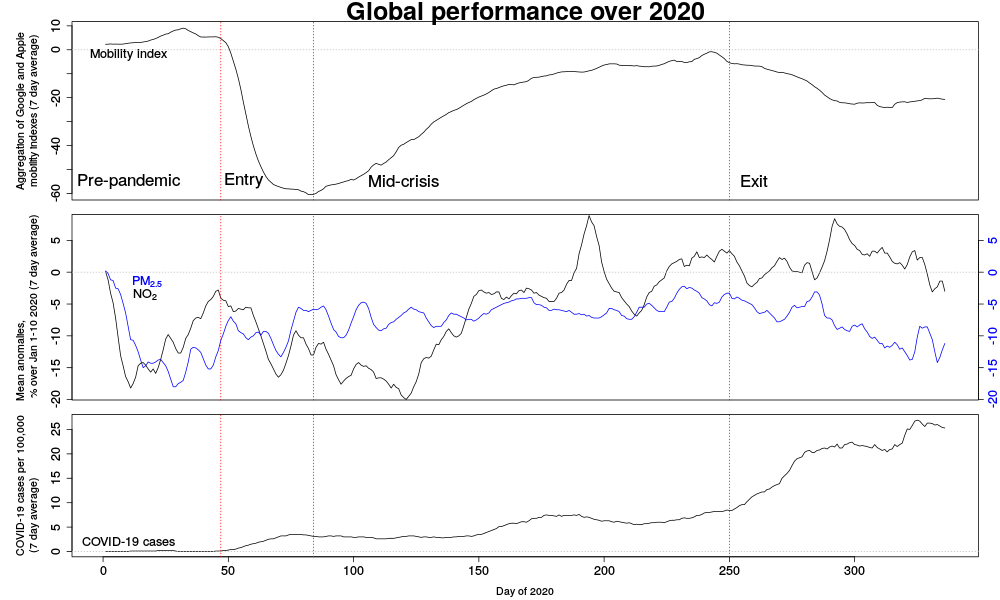
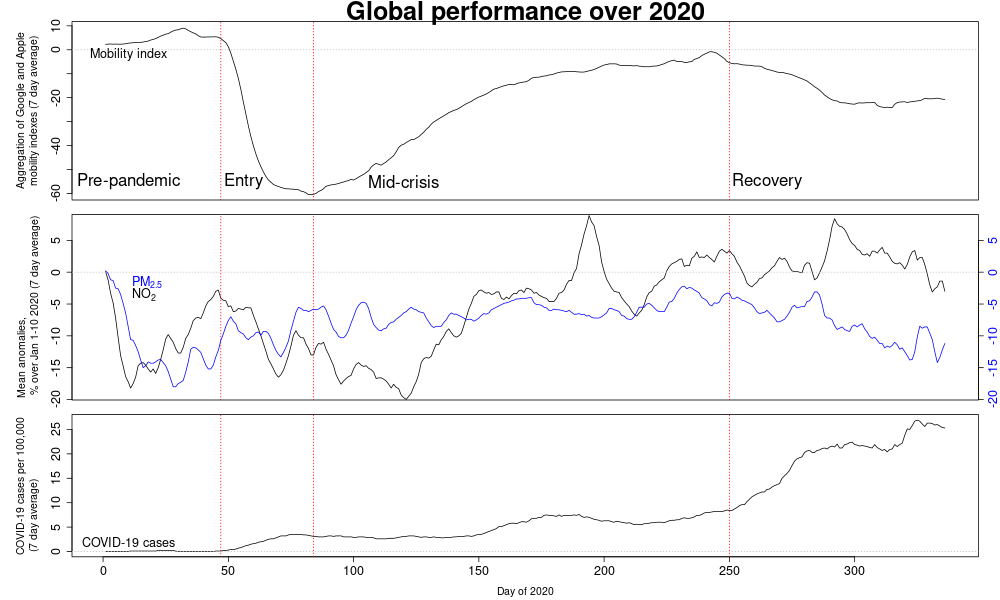
Middle of first draft

diff --git a/LancetPH_Pollution2020.tex b/LancetPH_Pollution2020.tex
@@ -110,7 +110,7 @@
 %%             country={}}
 %% \fntext[label3]{}
 
-\title{How urban design contributes to changes in mode choice and health risks in crises: a global observational study}
+\title{How city design contributes to changes in mode choice and health risks during a crisis: a global observational study}
 
 %% use optional labels to link authors explicitly to addresses:
 %% \author[label1,label2]{}
@@ -185,23 +185,26 @@
 
 \section*{Introduction}
 
-City designs are highly influenced by the dominant transport modes present at the time of their development \cite{KNOWLES2020102607}. These designs, which may vary both within and between cities, form a scaffold upon which citizens move and interact \cite{Thompson2020}. City designs therefore both afford and constrain transport mode options and patterns of mobility within them, affecting lifestyles and exposure to risks and opportunities for the more than 4.4 billion people who live within cities, worldwide \cite{WHO2023}.
+City designs are highly influenced by the dominant transport modes present at the time of their development \cite{KNOWLES2020102607}. The designs which vary within and between cities, form a scaffold upon which citizens move and interact \cite{Thompson2020}. City designs therefore both afford and constrain transport mode choice and signifcantly influence mobility patterns, which influence lifestyles and exposure to health risks. \cite{WHO2023}.
 
-City designs can variously emerge from strict top-down planning regimes \cite{mundigo1977city} or evolve organically through bottom-up processes \cite{batty2017thinking}. While some city designs foster movement and patterns of interaction that reduce exposure to public health issues like transport injury, infectious disease, or respiratory diseases caused by air pollution \cite{Wijnands2022, Stevenson2016}, others may amplify these risks through prioritising more hazardous transport modes \cite{Thompson2020}, or by generating vulnerabilities that can be exploited by the occurrence of natural hazards \cite{wang2023flood, stanley2022managing}. Given that approximately 56 percent of the world's 8 billion population live in urban areas — a figure projected to rise to 68 percent by 2050 adding an extra 2.5 billion people \cite{WHO2023} — Understanding the role of city design in exacerbating or mitigating public health risks is pivotal for forecasting and mitigating future chronic and acute health challenges to reduce global health burden.
+The design of cities arise from either a  strict top-down planning regime \cite{mundigo1977city} or organically through bottom-up processes \cite{batty2017thinking}. While some city designs foster movement and patterns of interaction that reduce exposure to significant health risks including air pollution, physical inactivity and the concomitant chronic diseases\cite{Wijnands2022, Stevenson2016,wang2023flood, stanley2022managing}. Given that approximately 56 percent of the world's 8 billion population live in cities — with projections it will reach 68 percent by 2050 \cite{WHO2023} understanding the role of city design in an effort to mitigate and prevent adverse health outcomes is of paramount importance in efforts to reduce the global burden of disease. 
 
-Clear evidence now underlines how public health risks encompassing injury, overweight, obesity, mental illness, respiratory disease, and other health issues entwined with inequality and social disadvantage, are entrenched in the fabric of city designs, planned or otherwise \cite{borrell2013factors,xing2016impact}. Not all cities - nor parts of cities - are on equal footing when faced with public health threats and hazards. This renders some citizens - usually the most disadvantaged - at greater risk of ill-health than others \cite{KRISHNA2021102046}. For example, the burden of disease attributable to road transport-related air pollution disproportionately affects children and the elderly. Air pollution-related deaths peak among babies in the early (0-6 days) and late (7-27 days) neonatal groups, reflecting how particulate matter can cause lower-respiratory infections in new-borns. These deaths then peak again in the older age groups, as air pollution contributes to lower-respiratory infections as well as noncommunicable diseases that develop over time, such as ischaemic heart disease, stroke, COPD, and lung cancer \cite{boogaard2022long}. Moreover, granular, time-sensitive analysis of city-level data pertaining to transport patterns, health outcomes, and pollution can illustrate that the effect of city design on net health outcomes is not fixed in time. Rather, risk exposure can shift dramatically in response to unfolding and overlapping crises and events. It therefore follows that that the prestige and health enjoyed by citizens in even the greatest or `healthiest' of cities is perhaps ephemeral. Times, circumstances, environments and conditions change, exposing new risks and new public health challenges.
+Accessing data that is standardised and readily accessible is urgently needed in order to explore city designs and the role that city design plays in mitigating or exacerbating health risks. Accessing the necessary data is a challenge given the majority of globally available data sources at the level of the city, are held in the Global North, while the majority of the world's urban population lives in the Global South \cite{Smit2021}.
 
+Clear evidence now underlines how public health risks encompassing injury, overweight, obesity, mental illness, respiratory disease, and other health issues entwined with inequality and social disadvantage are entrenched in the fabric of city designs, whether planned or otherwise \cite{borrell2013factors,xing2016impact,yuchi2020road}. Not all cities nor parts of cities are on equal footing when faced with public health threats and hazards, rendering some citizens - usually the most disadvantaged - at greater risk of ill-health \cite{KRISHNA2021102046}. For example, both social inequity brought about through road and highway construction \cite{carpenter2010poverty,archer2020white} and the burden of disease attributable to road transport-related air pollution disproportionately affects poorer communities who live close to major roadways, as well as children and the elderly. Air pollution-related deaths peak among babies in the early (0-6 days) and late (7-27 days) neonatal groups, reflecting how particulate matter can cause lower-respiratory infections in new-borns. These deaths then peak again in older age groups, as air pollution contributes to lower-respiratory infections as well as noncommunicable diseases that develop over time, such as ischaemic heart disease, stroke, COPD, and lung cancer \cite{boogaard2022long}. 
 
-For instance, cities with appropriate housing stock (e.g., large), industrial profile (e.g., service economy), demographic profile (e.g., nuclear families), and associated urban infrastructure (e.g., fast, widespread internet connection) suited to rapid adaptation to work-from-home policies triggered by biological or natural hazards may still place an undue economic or care burden on people within such a society who remain in manual jobs or in roles that cannot be performed remotely such as health and personal care \cite{CraigWFH,Vyas2021}. This can heighten inequalities for already vulnerable and high-risk communities \cite{martin2020fighting} which may in-turn foster resentment and resistance towards public health interventions designed to mitigate the impact of those same hazards \cite{de2016sustainability}. Such intertwined scenarios highlight that cities are complex systems \cite{DiezRoux2015}, interventions are unlikely to be felt equally across all levels of society, and any solutions to problems at hand are likely to set in motion a chain of secondary effects whose outcomes may or may not be well-understood at the outset \cite{Sterman2006}. When urban planning scenarios and mass public health interventions intersect and unfold over varying time-scales, they poses significant planning, management and communication challenges for policymakers \cite{thompson2022modelling,thompson2022framework}. Hence, public health interventions demand a nuanced understanding of both long-term and short-term societal outcomes, population heterogeneity, public health trade-offs, and the likely time-frames within which public health interventions may prove effective and/or justified in the face of both short and long-term restrictions to liberty and associated normative concerns \cite{dawson2016snakes, oliu2021sars}.
+Similarly, rates of road trauma are disproportionately high in both cities and areas within cities where exposure to risk (i.e., through use of and interaction with motor-vehicles) is greatest. Previous work has demonstrated that the per-capita burden of road transport injury for the poorest-performing global city types is an estimated 2-times greater than the best performing city types, producing an estimated loss of nearly 9 million disability-adjusted life-years attributable to sub-optimal urban design per annum \cite{Thompson2020}. Similarly, differences in road and intersection design within cities can produce considerable variation in risk exposure for residents \cite{Wijnands_IntersectionDesign2021,MORRISON2019123}. Such elevated risk is in addition to that generated through auto-centric urban design that disproportionately forces car use and ownership upon already disadvantaged households \cite{currie2018alarming, CURL201861}. 
 
+However, the evolution and dynamics of cities also generates dynamic risk profiles where risk exposure can shift dramatically in response to unfolding and overlapping events. For instance, cities with appropriate housing stock (e.g., large), industrial profile (e.g., service economy), demographic profile (e.g., nuclear families), and associated urban infrastructure (e.g., fast, widespread internet connection) may be well-suited to rapid adaptation to population-wide stay-in place policies \cite{hale2021global} triggered by biological or natural hazards. However, these population-wide policies may still place long-term economic burden on people who remain in manual jobs or in roles that cannot be performed remotely \cite{CraigWFH,Vyas2021}. This can heighten inequalities for already vulnerable and high-risk communities \cite{martin2020fighting} which may in-turn foster resentment and resistance toward observance of public health interventions \cite{de2016sustainability}. When high-risk groups reject public health guidance, risk to the general population is elevated, especially in relation to communicable disease \cite{koopman2005control}.
+
+Such intertwined scenarios highlight that cities are complex systems \cite{DiezRoux2015}, interventions are unlikely to be felt equally across all levels of society, and any solutions to crises or problems at hand are likely to set in motion a chain of secondary effects whose outcomes may or may not be well-understood at the outset \cite{Sterman2006}. When urban planning regimes and city designs meet mass public health challenges and interventions that impact populations and unfold over varying time-scales \cite{casti2012x}, they pose significant planning, management, and communication challenges for policymakers \cite{thompson2022modelling,thompson2022framework}. Hence, public health interventions demand a nuanced understanding of both long-term and short-term societal outcomes, population heterogeneity, public health trade-offs, and the likely time-frames within which they may prove effective, accepted and/or justified in the context of the city in which they are enacted \cite{dawson2016snakes, oliu2021sars}.
 
 
 \textbf{Objectives}
 
+The objective of this manuscript is to describe how city designs influenced changes to travel patterns and mode share between public versus private transportation during the first year of the CoVID-19 pandemic. We set out to evaluate the changes in transport-related pollution levels (namely, \(PM_{2.5}\) and \(NO_{2}\)) and exposure to transport injury risk across each of 639 cities, worldwide. We seek to demonstrate how estimated population health outcomes across respiratory disease, road injuries, and infectious disease are associated with differences in urban design characteristics across global cities.
 
-The objective of this manuscript is to describe how city designs influenced changes to travel patterns and mode share between public versus private transportation during the first year of the Covid-19 pandemic. We set out to evaluate the changes in transport-related pollution levels (namely, \(PM_{2.5}\) and \(NO_{2}\)) and exposure to transport injury risk across each of 639 cities, worldwide. We demonstrate how estimated population health outcomes across respiratory disease, road injuries, and infectious disease are associated with differences in urban design characteristics across global cities.
-
-Our aim is to illustrate how different city designs both afford and/or constrain the ability of cities and their populations to adapt to and recover from crises such as the COVID-19 pandemic. We discuss the implications of our findings for future public health challenges that cities and populations around the world will face in the future. Our final objective is to identify which urban design types might demonstrate the greatest resilience against immediate and long-term global public health threats. 
+Our aim is to illustrate how different city designs both afford and/or constrain the ability of cities and their populations to adapt to and recover from crises such as the CoVID-19 pandemic. We discuss the implications of our findings for future public health challenges that cities and populations around the world will face in the future. Our final objective is to identify which urban design types might demonstrate the greatest resilience against likely immediate and long-term global public health threats. 
 
 
 \textbf{Main research question}
@@ -246,9 +249,9 @@ The results of this analysis were then converted to a t-SNE graph which organise
 
 City-level pollution data was employed to validate the representation learned by the neural network. For each city, the neural network could predict whether pollution levels rose or fell compared to the previous year with an accuracy of 97\%. This result underscores the neural network's ability to not only capture the road network of the modelled cities, but also to approximate the relationship between the transport network and the behaviour of pollutants within the city.
 
-Additional validation of the neural network comes from Figure \ref{fig:Dimensions}, which plots the t-SNE representation against understood dimensions of urban design measured against city block size, block regularity, and block number as well as percentage of road and transit networks observed in each city from prior imagery studies \cite{Thompson2020}. Combined with Figure \ref{fig:clusters} and Figure \ref{fig:tSNE}, Figure \ref{fig:Dimensions} demonstrates that the urban morphology for analysed cities follows gradual changes across dimensions. High-density, small-block size and relatively regular cities are depicted on the upper-left of the chart (e.g., in areas A1/A2 and B1/B2), whereas sparse, large-block cities with little public transit infrastructure as a proportion of the transport network cluster together in the bottom right through areas G7 to H7. 
+Additional validation of the neural network comes from Figure \ref{fig:Dimensions}, which plots the t-SNE representation against understood dimensions of urban design measured against city block size, block regularity, and block number as well as percentage of road and transit networks observed in each city from prior studies \cite{Thompson2020}. Combined with Figure \ref{fig:clusters} and Figure \ref{fig:tSNE}, Figure \ref{fig:Dimensions} demonstrates that the urban morphology for analysed cities follows gradual changes across dimensions. High-density, small-block size and relatively regular cities are depicted on the upper-left of the chart (e.g., in areas A1/A2 and B1/B2), whereas sparse, large-block cities with little public transit infrastructure as a proportion of the transport network cluster together in the bottom right through areas G7 to H7. 
 
-Figure \ref{fig:tSNE} also shows that cities from within countries and continents tend to cluster together. For example, Japanese cities cluster tightly together across areas A1 and B1, while European cities cluster together in and around areas A2 to B2. Asian cities across China, India and Vietnam extend in a regular pattern from around areas B3 through to H7 as their designs differed along dimensions of block size and road network density.
+Figure \ref{fig:tSNE} also shows that cities from within countries and continents tend to cluster together. For example, Japanese cities cluster tightly together across areas A1 and B1, while European cities cluster together in and around areas A2 to B2. Asian cities across China, India and Vietnam extend in a regular pattern from grid references B3 through to H7 as their designs differed along dimensions of block size and road network density.
 
 Of note are also clusters of Australasian, South American and North American cities found in areas A3 to A5 and B3 to B5. Urban designs in these areas tended to demonstrate regular, medium-sized blocks with medium to low levels of public transit. Cities in these locations were typically of a `Chequerboard' or `Motor City' types, designed to facilitate the egress of motor vehicles.
 
@@ -273,7 +276,7 @@ Of note are also clusters of Australasian, South American and North American cit
 \subsection*{Data sources}
 
 
-Wijnands et al. (2022) \cite{Wijnands2022} created pollutant and city specific XGBoost models for 679 cities, trained on weather and pollution observations over 2015-2019 and used these models to predict daily pollution levels of NO$_{2}$, PM$_{2.5}$, PM$_{10}$, and O$_{3}$ during 2020. Using 2020 observed values, anomalies were calculated in the absence of a pandemic. The original Thompson et al. (2020) urban typology dataset consisted of the largest 1632 cities in the world. Of these, a subset of 679 cities were used (see Figure \ref{fig:clusters}), those that had pollution data available.
+Wijnands et al. (2022) \cite{Wijnands2022} created pollutant and city specific XGBoost models for 679 cities, trained on weather and pollution observations over 2015-2019 and used these models to predict daily pollution levels of NO$_{2}$, PM$_{2.5}$, PM$_{10}$, and O$_{3}$ during 2020. Using 2020 observed values, anomalies were calculated in the absence of a pandemic. The original Thompson et al. (2020)\cite{Thompson2020} urban typology dataset consisted of the largest 1632 cities in the world. Of these, a subset of 679 cities were used (see Figure \ref{fig:clusters}), those that had pollution data available.
 
 Apple \cite{Apple2020} and Google \cite{Google2020} provided mobility indexes in 2020. Apple's index calculates differences in map requests for modes of walking, driving, or public transit over a January 2020 baseline. Google generated an index using phone-tracking-based changes in mobility across several types of locations, including retail and recreation, grocery stores and pharmacies, parks, transit stations, workplaces, and private residences. These daily indexes were linked to the 679 cities with available pollution data.
 
@@ -309,23 +312,25 @@ Google's COVID-19 Open Data repository \cite{Google2022} provides data for daily
 \end{figure}
 
 
-Figure \ref{fig:stages} shows average mobility (Panel 1), anomalies of NO$_{2}$ and PM$_{2.5}$ pollution levels (Panel 2), and total reported CoVID-19 cases (Panel 3) for all measured cities during 2020 across the `Pre-pandemic', `Entry', `Mid-Crisis', and `Exit' phase of the COVID-19 pandemic defined as between between days 0 and 46, 47 to 75, 76 to 250 and day 251+, respectively. Mobility measures are calculated as seven day rolling average aggregations of Google and Apple across the 679 cities for which data was available across mobility and pollution. Pollution anomalies are calculated as percentage seven day rolling average differences over a January 1-10, 2020 baseline. Covid-19 cases are calculated as a 7-day rolling average of cases per 100,000 population from \cite{Google2022}.
+Figure \ref{fig:stages} shows average mobility (Panel 1), anomalies of NO$_{2}$ and PM$_{2.5}$ pollution levels (Panel 2), and total reported CoVID-19 cases (Panel 3) for all measured cities during 2020 across the `Pre-pandemic', `Entry', `Mid-Crisis', and `Recovery' phases of the CoVID-19 pandemic defined as between between days 0 and 46, 47 to 75, 76 to 250 and day 251+, respectively. Mobility measures are calculated as seven day rolling average aggregations of Google and Apple across the 679 cities for which data was available across both mobility and pollution. Pollution anomalies are calculated as percentage seven day rolling average differences over a January 1-10, 2020 baseline. CoVID-19 cases are calculated as a 7-day rolling average of cases per 100,000 population from \cite{Google2022}.
 
-From Figure \ref{fig:stages} it is possible to observe the dramatic impact on global mobility that resulted from the introduction of movement restrictions, including stay-at-home orders, implemented across global cities during the pandemic's `Entry' phase. Although movement restrictions were designed as a public health measure to reduce person-to-person disease transmission, a secondary effect was that they led to significant reductions in mean transport-related NO$_{2}$ and PM$_{2.5}$ levels \cite{zhang2023impact}. As mobility levels declined, they hit their nadir at around 45 days after the onset of the pandemic. This period also coincided with a plateau in global COVID-19 infection growth (panel 3) not least because of the public observance of restrictions placed on movement as well as other non-pharmaceutical interventions implemented up to and including this time \cite{hale2021global}. 
+From Figure \ref{fig:stages} it is possible to observe the dramatic impact on global mobility that resulted from the introduction of movement restrictions, including stay-at-home orders, implemented across global cities during the pandemic's `Entry' phase \cite{hale2021global}. Although movement restrictions were designed as a public health measure to reduce person-to-person disease transmission, a secondary effect was that they led to significant reductions in mean transport-related NO$_{2}$ and PM$_{2.5}$ levels \cite{zhang2023impact}. Average mobility declined across cities, reaching a nadir at approximately 45 days after pandemic onset. This period also coincided with a plateau in global COVID-19 infection growth (panel 3) not least because of the public observance of mobility restrictions as well as other non-pharmaceutical interventions implemented up to and including this time \cite{hale2021global}. 
 
 The mean estimated reduction in global NO$_{2}$ and PM$_{2.5}$ levels across observed cities during this `Entry' to `Mid-crisis' period was xxx\% or xxx ug/m$^{3}$. This equates to a cumulative reduction in pollution-related respiratory disease of xxx and a reduction in transport-related crash risk of yyy across analysed cities.
 
-Alongside private vehicle transport, public transit ridership also declined by up to 90\% in the Entry phase \cite{TransitCovid_Gkiotsalitis}. However, as mobility restrictions eased in response to declining rates of Covid-19 transmission and populations began re-engaging with workplace and social settings, citizens were faced with new factors that influenced their transportation choices, including the risk of infection through the use of mass transit \cite{BECKTransit}. Figure \ref{fig:driv_trans}, shows how these concerns may have contributed to a global shift away from public transport ridership toward private vehicle usage with values \textgreater 0 indicating a proportional modal shift away from public transit toward private vehicle use. This trend was most evident during July and August 2020, but continued until early 2021.
+Alongside private vehicle transport, public transit ridership also declined by up to 90\% in the 'Entry' phase \cite{TransitCovid_Gkiotsalitis}. However, as mobility restrictions eased in response to declining rates of CoVID-19 transmission and populations began re-engaging with workplaces and social settings, citizens were faced with new factors that influenced their transportation choices including the risk of infection through the use of mass transit \cite{BECKTransit}. Figure \ref{fig:driv_trans}, shows how these concerns may have contributed to a global shift away from public transport ridership toward private vehicle use with values \textgreater 0 indicating a proportional modal shift away from public transit and toward private vehicle use. This trend across the vast majority of cities was most evident during July and August 2020, but continued until early 2021 with many cities implementing incentive programs to counteract the effect \cite{dai2021improving}.
 
-Examining panel 3 of Figure \ref{fig:stages}, it is clear that the timing of the increase in private vehicle transport in mid-2020 coincided with a significant rebound of NO$_{2}$ and PM$_{2.5}$ levels than would be typically expected, adjusting for the weather, seasonality and trends, distinct topography, urban morphology, climate and atmospheric conditions of each city. This rebound was particularly pronounced for NO$_{2}$, which consistently exceeded estimated pre-pandemic levels across many cities in the latter part of 2020.
+Examining panel 3 of Figure \ref{fig:stages}, it is clear that the timing of the increase in private vehicle transport in mid-2020 coincided with a significant rebound of NO$_{2}$ and PM$_{2.5}$ levels than would be typically expected, adjusting for the weather, seasonality and trends, distinct topography, urban morphology, climate and atmospheric conditions of each city \cite{Wijnands2022}. This rebound was particularly pronounced for NO$_{2}$, which consistently exceeded estimated pre-pandemic levels across many cities in the latter part of 2020.
 
-However, despite the global trend of transitioning from public transit to private motor vehicle use, our results reveal that the extent of this shift was not uniform across all cities. Instead, it was more pronounced in cities recognised as being largely designed for motor vehicles \cite{Thompson2020} represented in areas A3 to A5 and B3 to B5 of Figure \ref{fig:tSNE}.
+However, despite the global trend of transitioning from public transit to private motor vehicle use \cite{fernando2023shaping}, our results reveal that the extent of this shift was not uniform across all city types. Instead, it was more pronounced in cities recognised as being largely designed for motor vehicles \cite{Thompson2020} represented in areas A3 to A5 and B3 to B5 of Figure \ref{fig:tSNE}.
 
-Characteristic designs of cities designed to promote the egress of motor vehicles is that they have planned, regular block layouts (for instance, square or rectangular block patterns) and have blocks of medium-size in comparison to other global cities. Such vehicle-centric city designs are predominantly found in countries including the United States, Australia, Canada, New Zealand, and Argentina which saw rapid urban expansion in the post WWII period coinciding with the popularity of motor vehicles. During the pandemic, the design of cities optimised for private vehicle transport afforded citizens a choice between public transit and private vehicle use. Given the fear of potential infectious disease transmission on public transit, citizens who had the option to avoid public transit in favour of private vehicles appeared to do so.
+Characteristic designs of cities designed to promote the egress of motor vehicles is that they have planned, regular block layouts (for instance, square or rectangular block patterns) and have blocks of medium-size in comparison to other global cities \cite{Thompson2020}. Such vehicle-centric city designs are predominantly found in countries including the United States, Australia, Canada, New Zealand, and Argentina which have seen rapid urban expansion in the late 19th and early 20th centuries. During the pandemic's 'Mid Crisis' and 'Recovery' phases, the cities optimised for private vehicle transport afforded citizens a choice between public transit and private vehicle use. Given the public's fear of potential infectious disease transmission on public transit\cite{fernando2023shaping}, citizens who had the option to avoid public transit in favour of private vehicles appeared to do so . In these cities, public transit ridership did not rebound. 
 
-For example, an archetypal city demonstrating a regular, car-based network is Los Angeles, USA. Figure \ref{fig:LAdriv_trans} shows the relative change in mode share between public transit and private vehicles for Los Angeles from a pre-pandemic baseline during 2020 in addition to showing levels of PM$_{2.5}$ pollution over the same period. Notable is that while observed patterns of mobility for Los Angeles' residents largely returned to normal in the second half of 2020 during the pandemic's Exit phase, public transit ridership did not rebound, but remained well below baseline. Importantly, the trade-off between public transit and private vehicle during the Exit phase was also associated with a peak in PM$_{2.5}$ pollution.
+For example, an archetypal city demonstrating a regular, car-based network is Los Angeles, USA. Figure \ref{fig:LAdriv_trans} shows the relative change in mode share between public transit and private vehicles for Los Angeles from a pre-pandemic baseline during 2020 in addition to showing levels of PM$_{2.5}$ pollution over the same period. Notable is that while observed patterns of mobility for Los Angeles' residents largely returned to normal in the second half of 2020 during the pandemic's Recovery phase, public transit ridership did not recover, but remained well below baseline. Importantly, the trade-off between public transit and private vehicle during the Recovery phase was also associated with a peak in PM$_{2.5}$ pollution. This pattern of results was observed across cities in North America and other cities located in grid areas A3 to A5 and B3 to B5 of \ref{fig:tSNE}.
 
-By contrast, Figure \ref{fig:TokyoDriv_trans} demonstrates that the rebound in mobility in the second half of 2020 in the city of Tokyo, Japan did not result in a modal shift between transit and public transit. Similarly, neither did this rebound coincide with peaks in transport-related pollution. This pattern of results was observed across Japanese cities. 
+Examples from the continent of South America.... (Sao Paulo)
+
+By contrast, Figure \ref{fig:TokyoDriv_trans} demonstrates that the rebound in mobility in the second half of 2020 in the city of Tokyo, Japan did not result in a modal shift between private vehicles and public transit. Similarly, neither did this rebound coincide with peaks in transport-related pollution. This pattern of results was observed across Japanese cities, which are peculiar on the world stage in that they combine very dense road networks and very small blocks with high levels of public transit alongside policies that restrict on-street vehicle parking \cite{clements2019socialising}. This combination of city design and public policy shifts responsibility for parking provision onto individual vehicle owners rather than to local government, tipping the scales of transport choice away from private means and toward public and/or active transit. Therefore, while car-centric city designs afforded populations transport mode choice, Japanese cities and supporting policies actively constrained citizens' options, resulting in a relative return to 'normal' in the pandemic recovery phase.
 
 
 
@@ -358,6 +363,7 @@ Japanese cities are peculiar on the world stage in that they combine a very dens
 
 The results above demonstrate that optimal city types for health are not static, but change given the health crises and concerns of the time. This should come as no surprise given the role of cities and shared urban infrastructure in historic public health disasters. However, the performance of cities and their role in producing or preventing disease has previously tended to be considered over a period of centuries, decades or years. Here, we demonstrate that optimal designs can also change in acute public health crises that unfold over weeks and months. City designs can facilitate rapid changes in mode-choice which may `stick' for better or worse. 
 
+It therefore follows that the prestige and (ill-)health enjoyed by citizens in even the greatest or `healthiest' of cities or areas is perhaps ephemeral. Times, circumstances, environments, and conditions change that expose citizens to new risks and new public health challenges.
 
 
 \section*{Conclusion}
@@ -425,19 +431,6 @@ KAN is supported by NHMRC/UKRI grant (1194959).
 \expandafter\ifx\csname urlprefix\endcsname\relax\def\urlprefix{URL }\fi
 \expandafter\ifx\csname href\endcsname\relax
   \def\href#1#2{#2} \def\path#1{#1}\fi
-
-
-%\bibitem{Wijnands2022}
-%J.~S. Wijnands, K.~A. Nice, S.~Seneviratne, J.~Thompson, M.~Stevenson,
-%  \href{https://doi.org/10.1016/j.apr.2022.101438}{{The impact of the COVID-19
-%  pandemic on air pollution: A global assessment using machine learning
-%  techniques}}, Atmospheric Pollution Research 13~(6) (2022) 101438.
-%\newblock \href {https://doi.org/10.1016/j.apr.2022.101438}
-%  {\path{doi:10.1016/j.apr.2022.101438}}.
-  
-
-
-
 
 \end{thebibliography}
 \end{document}
